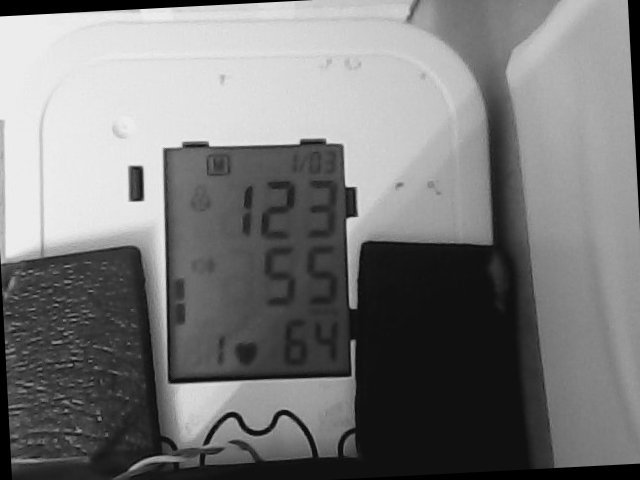
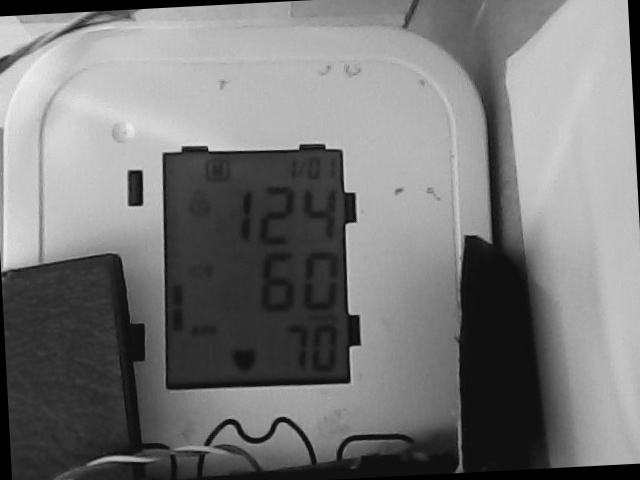
latest adjustments (fw not tested)

diff --git a/firmware/max30102-test2/src/main.cpp b/firmware/max30102-test2/src/main.cpp
@@ -56,6 +56,9 @@ public:
 #define FINGER_ON_THRESHOLD  75000 // Valor para TER CERTEZA que o dedo está no sensor
 #define FINGER_OFF_THRESHOLD 50000 // Valor para TER CERTEZA que o dedo foi removido
 
+// Timeout para o dedo ser inserido no sensor durante a medição de oxigenação (ms)
+#define OXI_FINGER_TIMEOUT 5000 // 5 segundos
+
 // --- Objetos das suas bibliotecas customizadas ---
 MAX30102 sensor;
 Pulse pulseIR;
@@ -92,6 +95,7 @@ unsigned long lastSampleTime = 0;
 unsigned long releStartTime = 0;
 unsigned long lastBeat = 0;
 unsigned long lastPrintTime = 0;
+unsigned long oxiStartTime = 0; // armazena quando entramos em MEASURE_OXI
 int sampleCount = 0;
 uint8_t try_count = 0;
 
@@ -241,6 +245,7 @@ void loop() {
             oxiSamples.clear();
             sampleCount = 0;
             lastSampleTime = currentTime;
+            oxiStartTime = currentTime; // inicia timeout para o dedo ser inserido
             break;
 
         case MEASURE_OXI:
@@ -266,15 +271,26 @@ void loop() {
             
             #else
                 sensor.check(); 
-                if (currentTime - lastSampleTime >= 100) 
+                // Se ainda não detectamos o dedo, verificamos timeout
+                if (!fingerOnSensor && oxiStartTime > 0 && (currentTime - oxiStartTime >= OXI_FINGER_TIMEOUT))
+                {
+                    #if DEBUGMODE
+                        Serial.println("Timeout: dedo nao inserido. Cancelando medicao de Oxi.");
+                    #endif
+                    currentState = SERVO1_BACKWARD;
+                    oxiStartTime = 0;
+                    break;
+                }
+
+                if (currentTime - lastSampleTime >= 20) 
                 {
                     if (sensor.available()) 
                     {
                         uint32_t irValue = sensor.getIR();
-                    uint32_t redValue = sensor.getRed(); // Ler ambos os valores para os filtros
+                        uint32_t redValue = sensor.getRed(); // Ler ambos os valores para os filtros
                         sensor.nextSample();
 
-                    // Lógica de detecção com histerese para evitar oscilação
+                        // Lógica de detecção com histerese para evitar oscilação
                         if (irValue < FINGER_OFF_THRESHOLD && fingerOnSensor) {
                             fingerOnSensor = false;
                             beatAvg = 0;
@@ -347,6 +363,7 @@ void loop() {
                                     // --- MODIFICADO ---
                                     SerialPi.printf("O:OK:%d\n", medianSPO2); // Resposta para o Pi
                                     currentState = SERVO1_BACKWARD;
+                                    oxiStartTime = 0; // sucesso, limpa timeout
                                 }
                 
                                 if (currentTime - lastPrintTime > 1000) 
@@ -363,13 +380,18 @@ void loop() {
                     {
                         sensor.check();
                         #if DEBUGMODE
-                            if(try_count > 5)
+                            if(try_count > 20)
                             {   
+                                SerialPi.printf("O:NACK:%d\n");
                                 try_count = 0;
-                                Serial.println("WAIT....");
+                                currentState = SERVO1_BACKWARD;
+                                oxiStartTime = 0; // garante reset do timeout ao sair
                             }
                             else
+                            {
+                                Serial.println("WAIT....");
                                 try_count++;
+                            }
                         #endif
                     }
                 }

diff --git a/measure_recognition/seteseg.py b/measure_recognition/seteseg.py
@@ -1,6 +1,6 @@
 import cv2
 
-img = cv2.imread("2025-11-06-165701.jpg")
+img = cv2.imread("2025-11-07-232210.jpg")
 height, width = img.shape[:2]
 center = (width/2, height/2)
 
@@ -10,7 +10,7 @@ img = cv2.warpAffine(img, rotation_matrix, (width, height))
 img = cv2.cvtColor(img, cv2.COLOR_BGR2GRAY)
 cv2.imwrite("saida_gray.png", img)
 img_color = cv2.cvtColor(img, cv2.COLOR_GRAY2BGR)
-blur = cv2.GaussianBlur(img, (7, 7), 0)
+blur = cv2.GaussianBlur(img, (5, 5), 0)
 img = cv2.adaptiveThreshold(
     blur, 255,
     cv2.ADAPTIVE_THRESH_GAUSSIAN_C,
@@ -76,9 +76,9 @@ def ler_digito(dig_img, debug_img, x0, y0):
 
 # --- Coordenadas fixas dos dígitos (x, y, w, h) ---
 digitos_coord = {
-    "sistolica": [(218, 180, 33, 60), (262, 180, 33, 60), (304, 180, 33, 60)],
-    "diastolica": [(264, 246, 33, 60), (305, 246, 33, 60)],
-    "pulso": [(286, 320, 22, 45), (316, 320, 22, 45)]
+    "sistolica": [(218, 183, 30, 60), (262, 183, 30, 60), (305, 182, 30, 60)],
+    "diastolica": [(264, 250, 30, 60), (304, 250, 30, 60)],
+    "pulso": [(284, 325, 22, 45), (314, 325, 22, 45)]
 }
 
 # --- Processar cada grupo ---
@@ -88,7 +88,7 @@ for label, coords in digitos_coord.items():
     for (x, y, w, h) in coords:
         dig_img = img[y:y+h, x:x+w]
         numero += ler_digito(dig_img, img_color, x, y)
-        cv2.rectangle(img, (x, y), (x+w, y+h), (255, 255, 0), 1)  # amarelo = caixa do dígito
+        cv2.rectangle(img, (x, y), (x+w, y+h), (255, 255, 0), 2)  # amarelo = caixa do dígito
     valores[label] = numero
 
 print("\nLeitura automática:")
